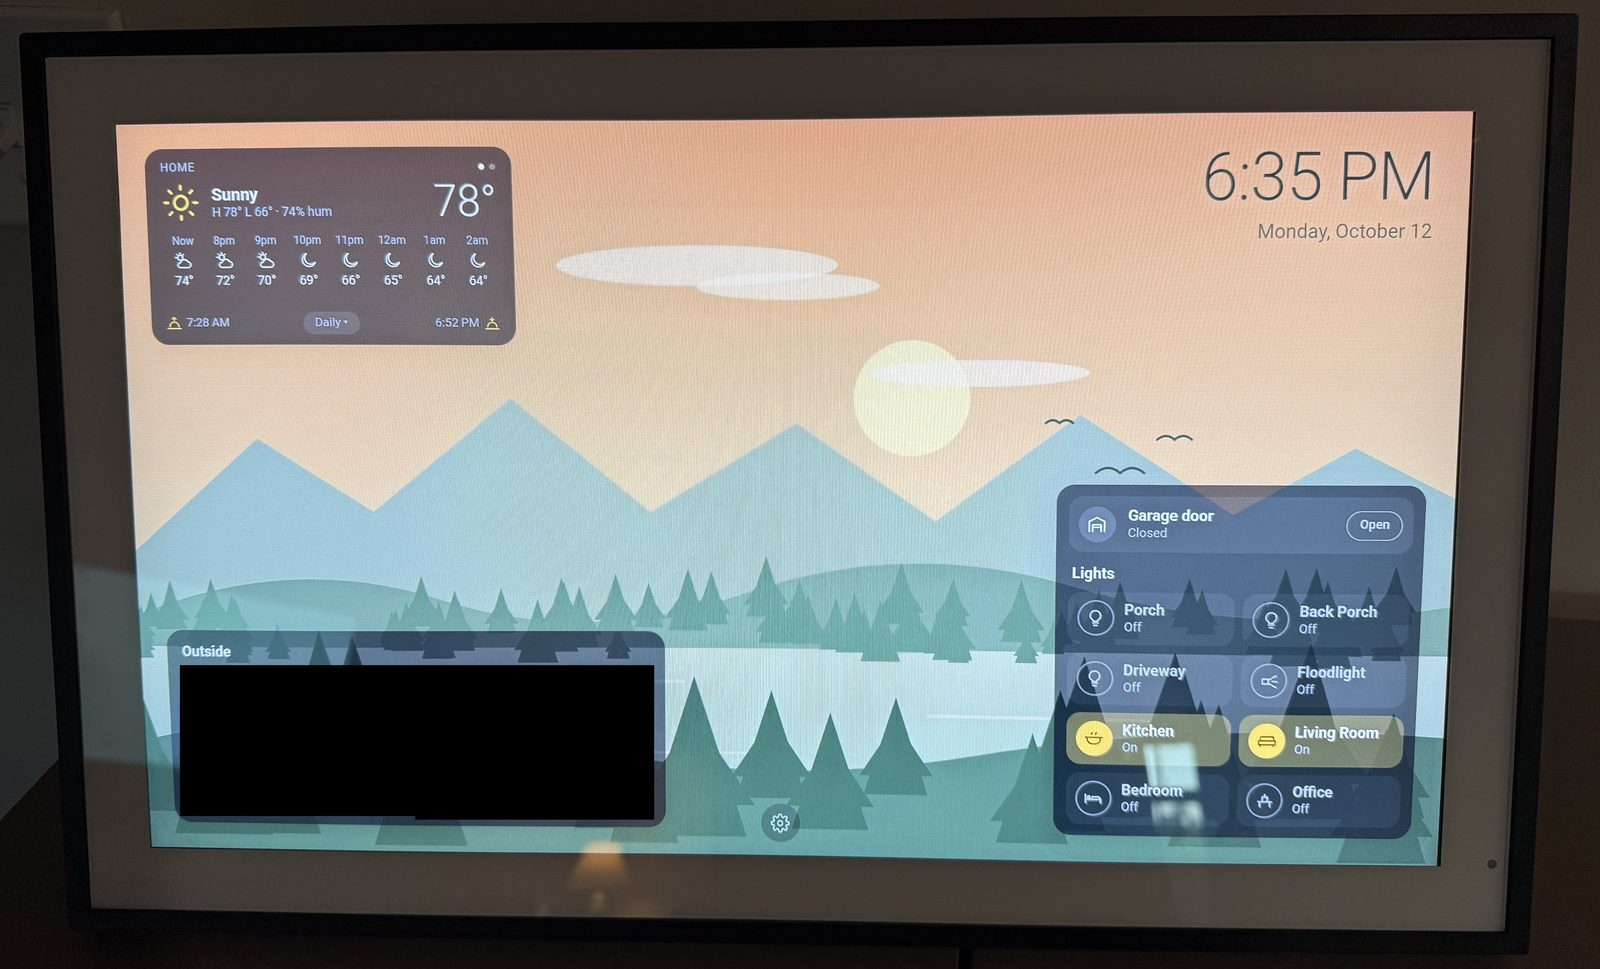
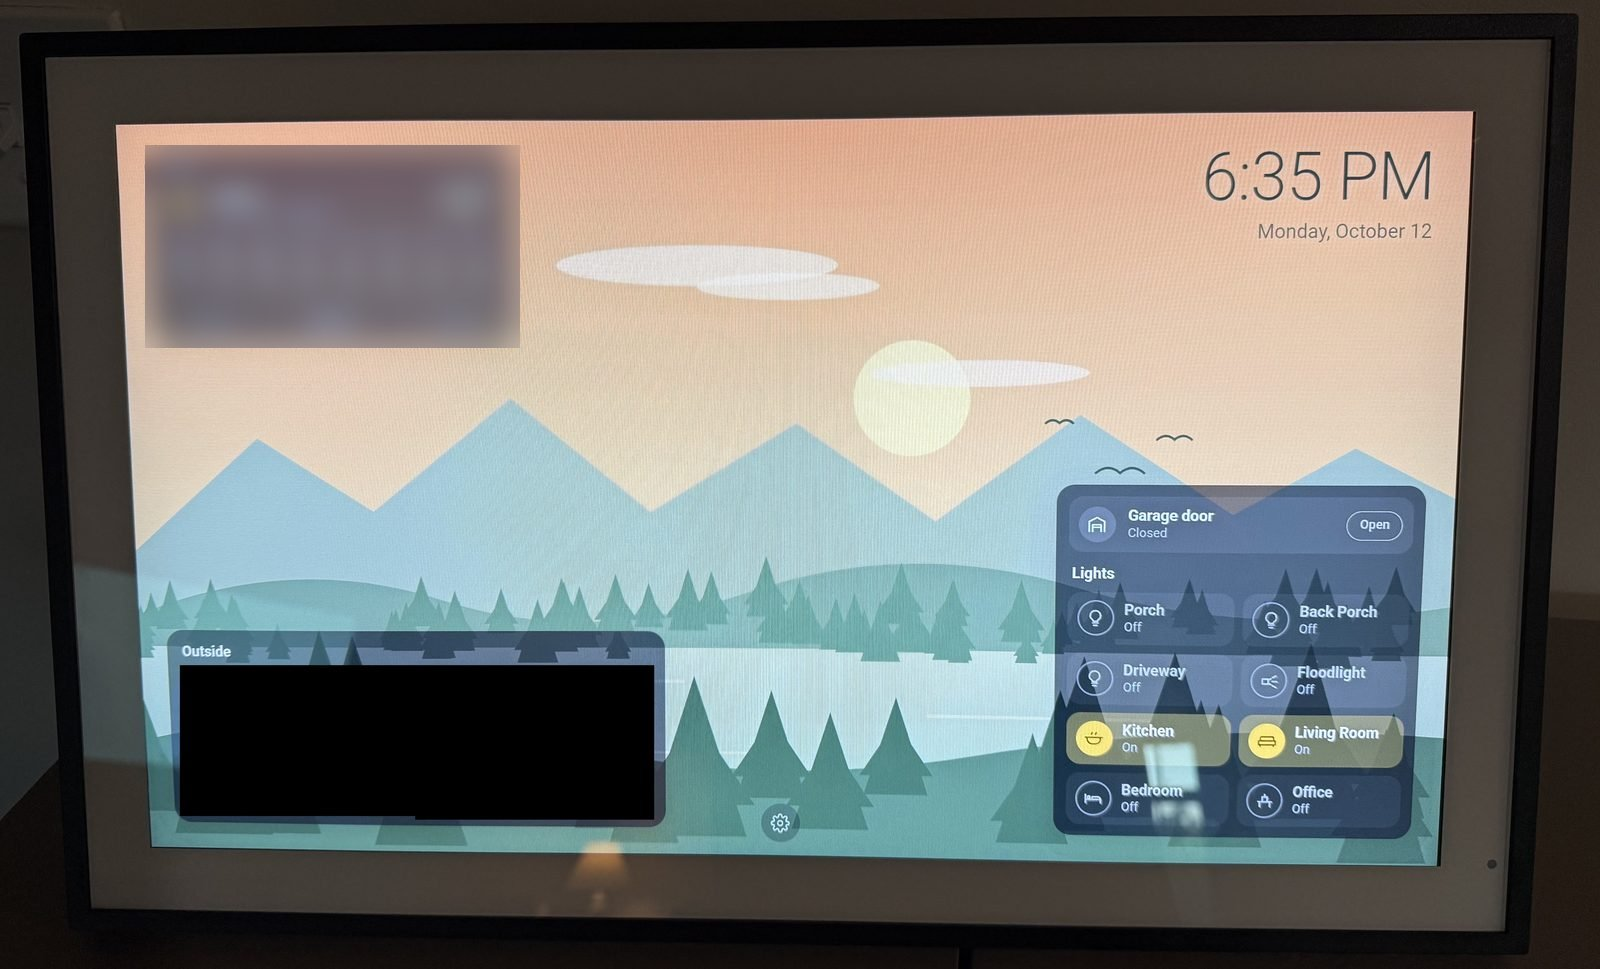
a133: confirm before flashing and check partition sizes on the device; blur location hints in photo
- flash-gsi and rollback wrote super, metadata and the start of UDISK, then
  rebooted, with no confirmation; they now require typing 'flash'
- each partition's size on the device must match before it is written
- verify steps exit non-zero on mismatch
- photo: weather card (sunrise/sunset, temperature) blurred

Changed region(s): [[0.0938, 0.1238, 0.3438, 0.3715]]

diff --git a/scripts/a133/README.md b/scripts/a133/README.md
@@ -1,7 +1,7 @@
 # scripts/a133: LOOFII C-3 (Allwinner A133) tools
 
 Written for and tested on **one** LOOFII C-3 (see `docs/allwinner-a133-loofii-c3.md`). Check the identity values there first.
-Nothing here writes to a device unless you name the phase/partition explicitly and set the matching `FB_ALLOW_*` variable.
+Nothing here writes to a device unless you name the phase explicitly. `a133-flash.sh flash-gsi` and `rollback` set `FB_ALLOW_FLASH` themselves, so they ask you to type `flash` first and check each partition's size on the device before writing. Run `fbflash.py` directly only if you know what you are doing.
 
 Requirements: Python 3 with `pyusb` (+ libusb; on macOS `brew install libusb`), `e2fsprogs` (`e2fsck`, `debugfs`),
 `sunxi-tools` (`sunxi-fel`) for FEL, `dtc` for the display overlay, Node 22+ for `cdp-eval.mjs`.
